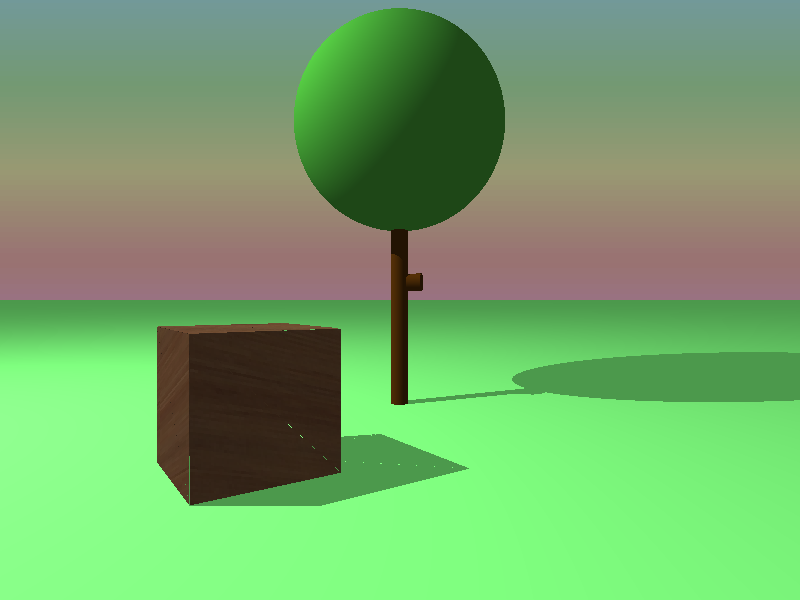
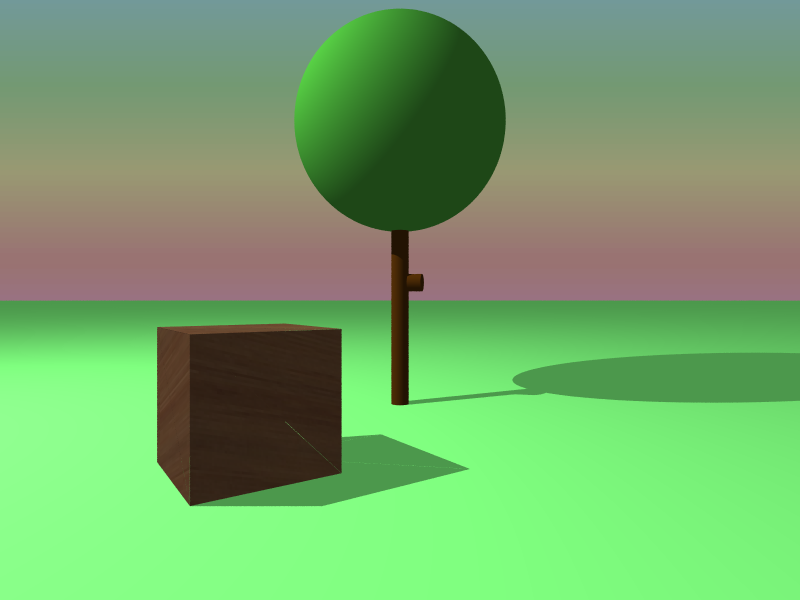
Modelo Iluminacao Final

Changed region(s): [[0.625, 0.63, 0.6562, 0.66], [0.5, 0.48, 0.5312, 0.51]]

diff --git a/java/src/raytracer/Raytracer.java b/java/src/raytracer/Raytracer.java
@@ -176,7 +176,37 @@ public class Raytracer {
         
         // [EXTRA - Semana 2, exercício 6]: se o material for transparente,
         // lançar raio de refração chamando castRay recursivamente (~25 linhas)
-        
+        if (material.p_t > 0) {
+            Vector3 N = intersection.n;
+
+            double n1 = 1.0;
+            double n2 = material.p_t;
+
+            double cosi = -N.dot(ray.u);
+
+            if (cosi < 0) {
+                cosi = -cosi;
+                N = N.mult(-1);
+
+                double temp = n1;
+                n1 = n2;
+                n2 = temp;
+            }
+
+            double eta = n1 / n2;
+
+            double k = 1.0 - eta * eta * (1.0 - cosi * cosi);
+
+            if (k >= 0) {
+                Vector3 refractedDirection = ray.u.mult(eta).add(N.mult(eta * cosi - Math.sqrt(k))).normalized();
+
+                Ray refractedRay = new Ray(intersection.P.diff(N.mult(Constants.TINY)),refractedDirection);
+
+                Vector3 refractedColor = castRay(scene, refractedRay);
+
+                CorP = CorP.add(refractedColor.mult(material.p_t));
+            }
+        }
         
         // trunca a cor: faz r, g e b ficarem entre 0 e 1, caso tenha excedido
         CorP.truncate();
@@ -234,9 +264,6 @@ public class Raytracer {
             }
         }
          
-        
-       
-        // Está sempre retornando true, ou seja, sombras nunca são geradas...
         return true;
     }
 
@@ -261,15 +288,24 @@ public class Raytracer {
                 // uma posição diferente dentro do pixel
                 // Ao final, a cor do pixel é a média das cores de todos raios
                 // lançados através dele
+                
+                Vector3 color = new Vector3(0, 0, 0);
+                
+                int RMS = 4; // Ray Matrix size
 
-                // cria um raio primário
-                Ray ray = generateInitialRay(scene.camera, i, j, height, width);
+                for(int y = 0; y < RMS; y++) {
+                    for(int x = 0; x < RMS; x++) {
+                        double dx = (x + Math.random()) / RMS;
+                        double dy = (y + Math.random()) / RMS;
 
-                // lança o raio e recebe a cor
-                Vector3 color = castRay(scene, ray);
+                        Ray ray = generateInitialRay(scene.camera,i + dy,j + dx,height,width);
 
+                        color = color.add(castRay(scene, ray));
+                    }
+                }
+            
                 // salva a cor na matriz de cores
-                pixels[i][j] = color;
+                pixels[i][j] = color.mult(1.0 / (RMS * RMS)); // média da cor dos raios lançados através do pixel
             }
         }
 
